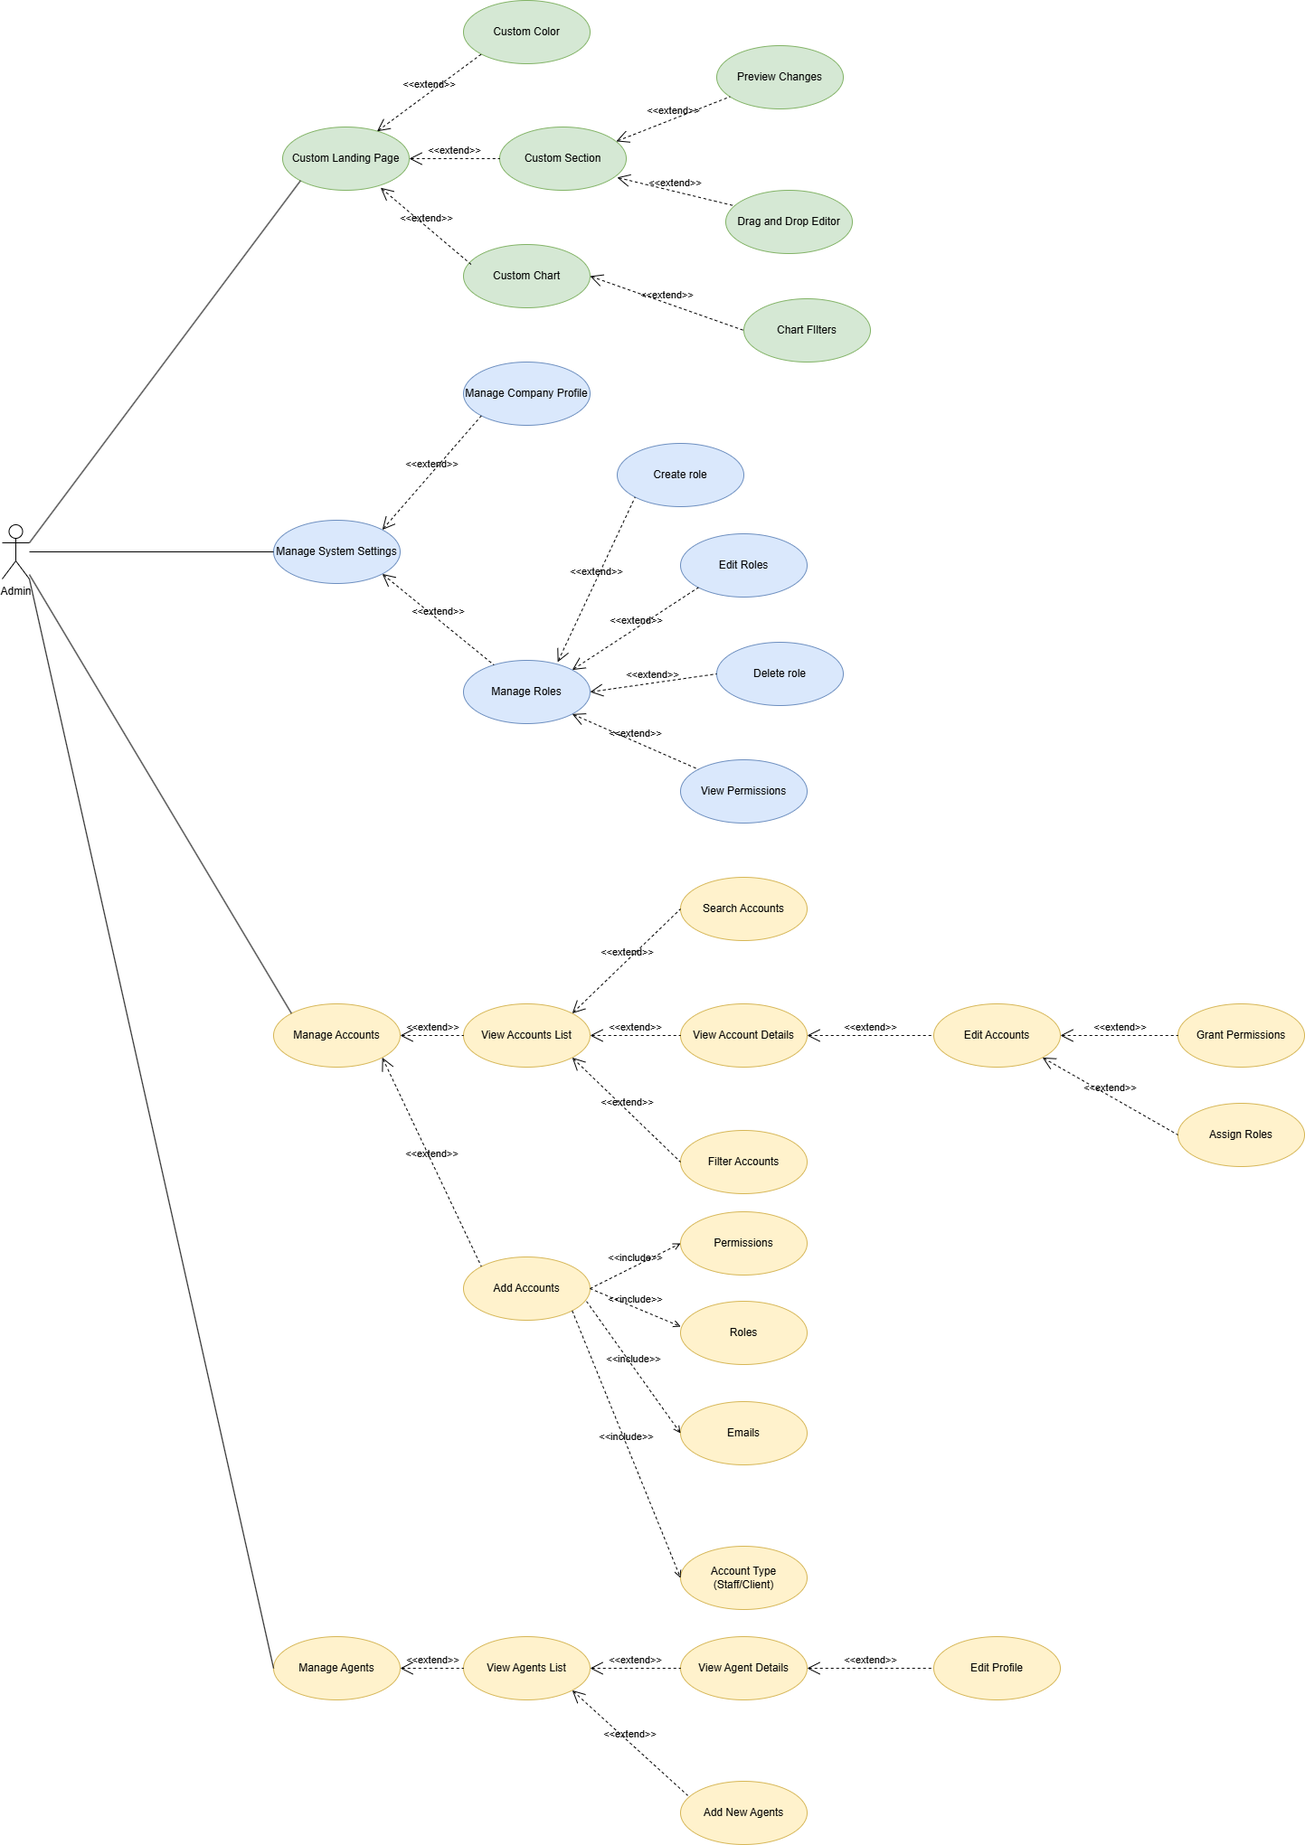
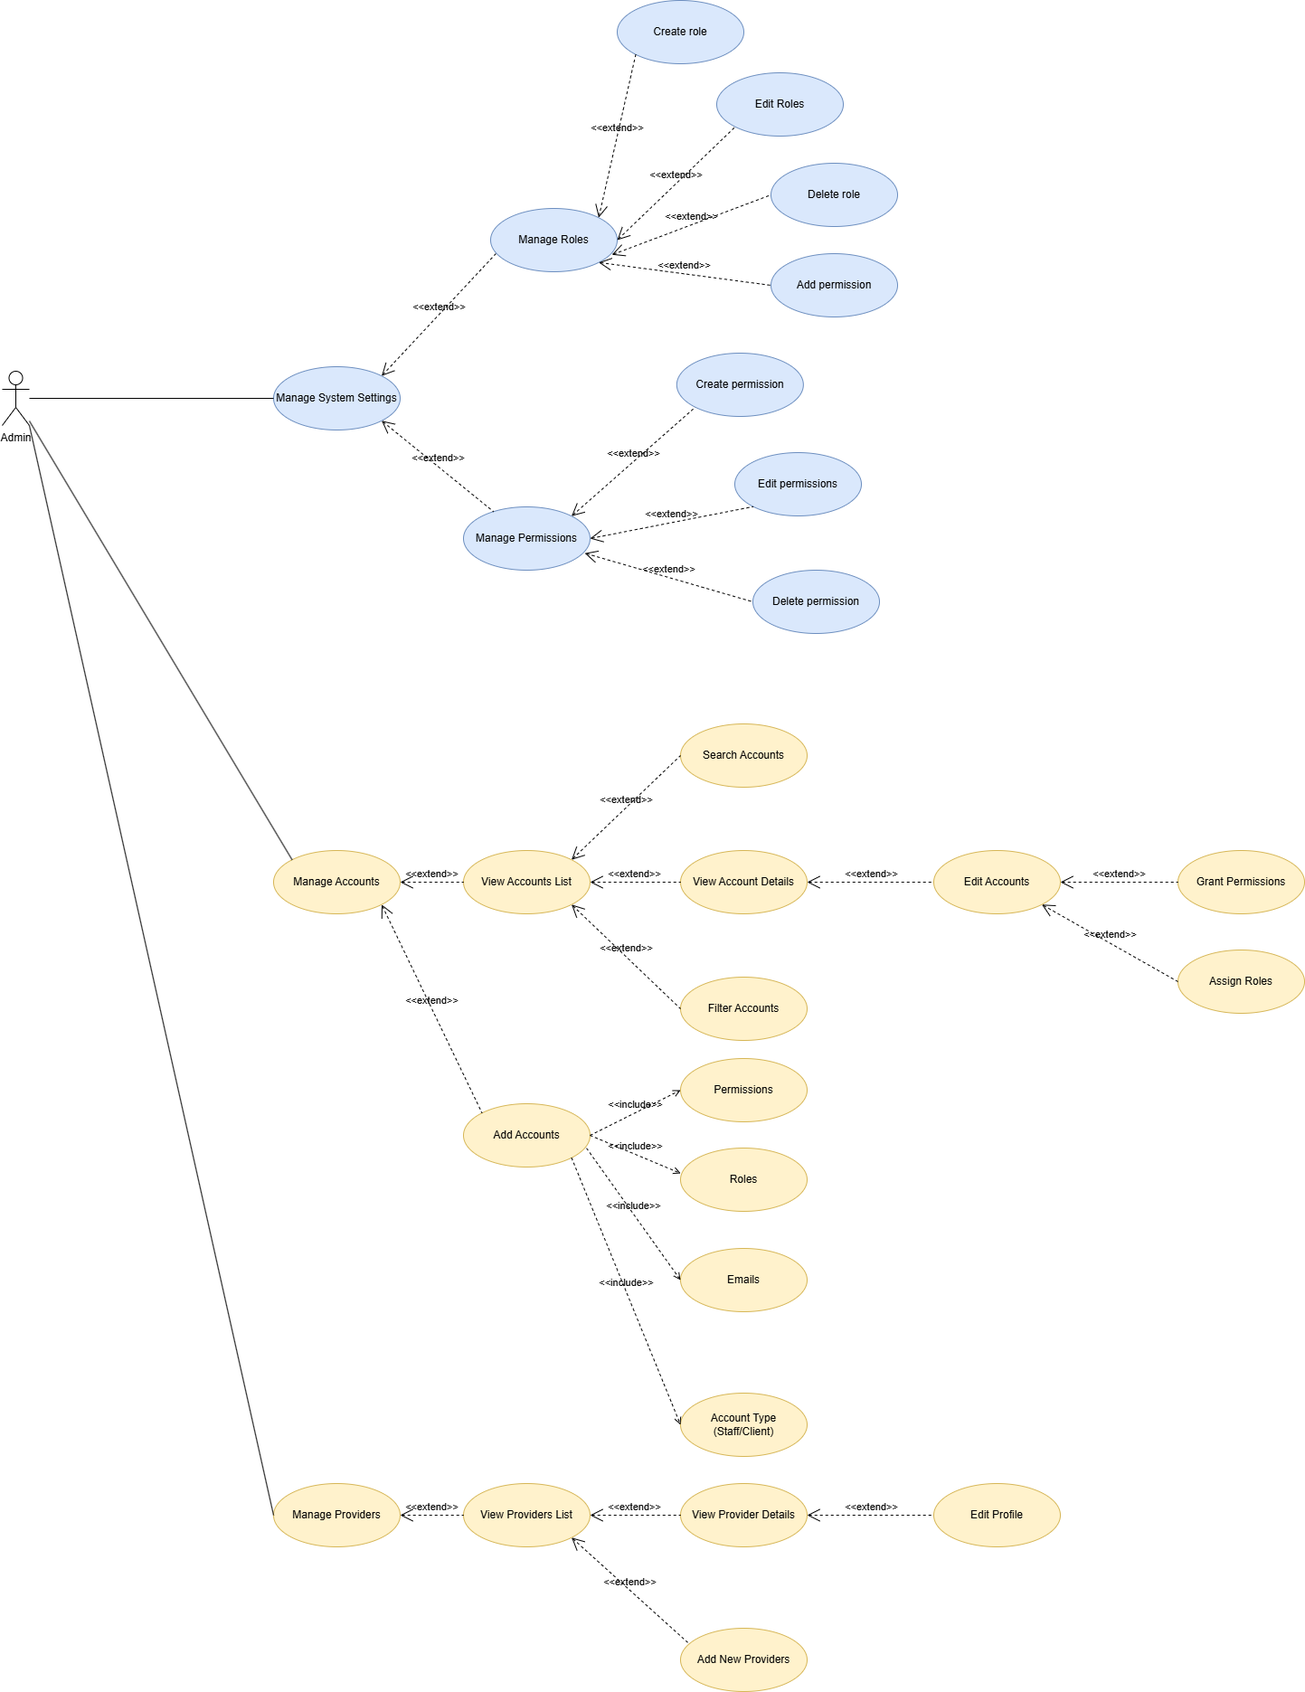
update

diff --git a/chapters/main/3.sys-analysis.tex b/chapters/main/3.sys-analysis.tex
@@ -167,60 +167,44 @@ When a freight forwarding company subscribes to FreightFlex, they receive their 
     \label{fig:Usecase Diagram for Admin}
 \end{figure}
 
-\subsubsection{Landing Page Settings}
+\subsubsection{Client Settings}
 \begin{table}[H]
 \begin{tabularx}{\textwidth}{|p{0.25\textwidth}|X|}
 \hline
-Usecase name     & Custom Landing Page                             \\ \hline
-Actor            & Admin                                           \\ \hline
-Description      & Custom Landing Page                             \\ \hline
-Preconditions &
-  \begin{tabular}[c]{@{}l@{}}1. Authorized with Super Admin Account.\\ 2. Actor is in Landing Page.\end{tabular} \\ \hline
-Postconditions   & Notification success or failed.                 \\ \hline
+Usecase name     & Create client                          \\ \hline
+Actor            & Admin                                \\ \hline
+Description      & Add client            \\ \hline
+Preconditions    & Authorized with Super Admin Account. \\ \hline
+Postconditions   & Show client details.                   \\ \hline
 Normal Flow &
-  \begin{tabular}[c]{@{}l@{}}1. Actor turns on edit mode.\\ 2. Actor upload Company logo.\\ 3. Actor choose color theme for each section.\\ 4. Actor choose charts to show.\\ 5. Actor drag and drop each section to suitable position.\\ 6. Actor preview changes.\end{tabular} \\ \hline
-Exception Flow   & 5a. Section size is not fit to desired position \\ \hline
-Alternative Flow &                                                 \\ \hline
-\end{tabularx}
-\caption{Custom Landing Page}
-\label{tab:custom-landing-page}
-\end{table}
-\subsubsection{System Settings}
-\begin{table}[H]
-\begin{tabularx}{\textwidth}{|p{0.25\textwidth}|X|}
-\hline
-Usecase name     & Setup Company Profile                   \\ \hline
-Actor            & Admin                                   \\ \hline
-Description      & Setup Company Profile                   \\ \hline
-Preconditions    & 1. Authorized with Super Admin Account. \\ \hline
-Postconditions   & Notification success or failed.         \\ \hline
-Normal Flow &
-  \begin{tabular}[c]{@{}l@{}}1. Actor go to Settings.\\ 2. Actor choose tab Company Profile.\\ 3. Actor upload Company logo.\\ 4. Actor fills required fields.\\ 5. Actor click on save button.\end{tabular} \\ \hline
+  \begin{tabular}[c]{@{}l@{}}1. Actor go to Clients.\\ 2. Actor click on new client button.\\ 3. Actor fill client information.\\ 4. Actor click on save button.\end{tabular} \\ \hline
 Exception Flow &
-  \begin{tabular}[c]{@{}l@{}}3a. Wrong file format.\\ 4a. Miss required fields.\\ 4b. Wrong field format.\end{tabular} \\ \hline
-Alternative Flow & 4c. Actor changes or removes data.      \\ \hline
+  \begin{tabular}[c]{@{}l@{}}4a. Email has been used.\\ Cannot create client.\end{tabular} \\ \hline
+Alternative Flow &                                      \\ \hline
 \end{tabularx}
-\caption{Company Profile Settings}
-\label{tab:company-profile-setting}
+\caption{Create client}
+\label{tab:create-client}
 \end{table}
 
 \begin{table}[H]
 \begin{tabularx}{\textwidth}{|p{0.25\textwidth}|X|}
 \hline
-Usecase name     & Create role                          \\ \hline
+Usecase name     & Update client details                         \\ \hline
 Actor            & Admin                                \\ \hline
-Description      & Add role with permissions            \\ \hline
+Description      & Add client            \\ \hline
 Preconditions    & Authorized with Super Admin Account. \\ \hline
-Postconditions   & Show role details.                   \\ \hline
+Postconditions   & Show updated client details.                   \\ \hline
 Normal Flow &
-  \begin{tabular}[c]{@{}l@{}}1. Actor go to Settings.\\ 2. Actor choose tab Role.\\ 3. Actor choose add new button.\\ 4. Actor ticks the checkbox for permission\\ 5. Actor click on save button.\end{tabular} \\ \hline
-Exception Flow   &                                      \\ \hline
+  \begin{tabular}[c]{@{}l@{}}1. Actor go to Clients.\\ 2. Actor click on existing client.\\ 3. Actor choose view icon.\\ 4. Actor update client information.\\ 5. Actor click on save button.\end{tabular} \\ \hline
+Exception Flow &
+  \begin{tabular}[c]{@{}l@{}}4a. Email has been used.\\ Cannot update client.\end{tabular} \\ \hline
 Alternative Flow &                                      \\ \hline
 \end{tabularx}
-\caption{Create new role}
-\label{tab:create-role}
+\caption{Update client}
+\label{tab:update-client}
 \end{table}
-\subsubsection{Account Settings}
+
+\subsubsection{Staff Settings}
 \begin{table}[H]
 \begin{tabularx}{\textwidth}{|p{0.25\textwidth}|X|}
 \hline
@@ -232,100 +216,118 @@ Postconditions   & Add account successful                      \\ \hline
 Normal Flow &
   \begin{tabular}[c]{@{}l@{}}1. Actor go to Adminstrantions.\\ 2. Actor choose tab Staff.\\ 3. Actor choose create button.\\ 4. Actor fills required fields.\\ 5. Actor click on save button.\end{tabular} \\ \hline
 Exception Flow &
-  \begin{tabular}[c]{@{}l@{}}4a. Actor does not fill required fields.\\ Cannot save staff.\end{tabular} \\ \hline
+  \begin{tabular}[c]{@{}l@{}}4a. Actor does not fill required fields.\\ 4b. Email has been used.\\ Cannot save staff.\end{tabular} \\ \hline
 Alternative Flow &                                             \\ \hline
 \end{tabularx}
 \caption{Add new staff}
 \label{tab:add-staff}
 \end{table}
 
+\subsubsection{Privilege Settings}
 \begin{table}[H]
 \begin{tabularx}{\textwidth}{|p{0.25\textwidth}|X|}
 \hline
-Usecase name     & Grant permissions for staff account         \\ \hline
-Actor            & Admin                                       \\ \hline
-Description      & Grant permissions for staff account         \\ \hline
-Preconditions    & Authorized with an Admin Privilege account. \\ \hline
-Postconditions   & Update account successful                   \\ \hline
+Usecase name     & Create role                          \\ \hline
+Actor            & Admin                                \\ \hline
+Description      & Add role            \\ \hline
+Preconditions    & Authorized with Super Admin Account. \\ \hline
+Postconditions   & Show role details.                   \\ \hline
 Normal Flow &
-  \begin{tabular}[c]{@{}l@{}}1. Actor go to Settings.\\ 2. Actor choose tab Role.\\ 3. Actor choose role to edit.\\ 4. Actor add account to role.\\ 5. Actor click on save button.\end{tabular} \\ \hline
-Exception Flow   &                                             \\ \hline
-Alternative Flow &                                             \\ \hline
+  \begin{tabular}[c]{@{}l@{}}1. Actor go to Settings.\\ 2. Actor choose tab Role.\\ 3. Actor choose add new button.\\ 4. Actor choose type user.\\ 5. Actor add users to the role.\\ 6. Actor click on save button.\end{tabular} \\ \hline
+Exception Flow   &                                      \\ \hline
+Alternative Flow &
+\begin{tabular}[c]{@{}l@{}} 4a. Actor choose type group.\\ 5a. Actor add groups to the role.\\ 6. Actor click on save button.\end{tabular} \\ \hline
 \end{tabularx}
-\caption{Grant permissions for staff}
-\label{tab:staff-permissions}
+\caption{Create new role}
+\label{tab:create-role}
 \end{table}
-\subsubsection{Agent Settings}
 
 \begin{table}[H]
 \begin{tabularx}{\textwidth}{|p{0.25\textwidth}|X|}
 \hline
-Usecase name     & View agent details                       \\ \hline
+Usecase name     & Create permission                          \\ \hline
+Actor            & Admin                                \\ \hline
+Description      & Add permission            \\ \hline
+Preconditions    & Authorized with Super Admin Account. \\ \hline
+Postconditions   & Show permission details.                   \\ \hline
+Normal Flow &
+  \begin{tabular}[c]{@{}l@{}}1. Actor go to Settings.\\ 2. Actor choose tab Permission.\\ 3. Actor choose add new button.\\ 4. Actor fill required fields.\\ 5. Actor add role to the permission.\\ 6. Actor click on save button.\end{tabular} \\ \hline
+Exception Flow   &                                      \\ \hline
+Alternative Flow &
+\begin{tabular}[c]{@{}l@{}}  5a. Actor add groups to the permission.\\ 6. Actor click on save button.\end{tabular} \\ \hline
+\end{tabularx}
+\caption{Create new permission}
+\label{tab:create-permission}
+\end{table}
+
+\begin{table}[H]
+\begin{tabularx}{\textwidth}{|p{0.25\textwidth}|X|}
+\hline
+Usecase name     & Create new group                          \\ \hline
+Actor            & Admin                                \\ \hline
+Description      & Add new group            \\ \hline
+Preconditions    & Authorized with Super Admin Account. \\ \hline
+Postconditions   & Show group details.                   \\ \hline
+Normal Flow &
+  \begin{tabular}[c]{@{}l@{}}1. Actor go to Settings.\\ 2. Actor choose tab Group Management.\\ 3. Actor choose add new button.\\ 4. Actor fill required fields.\\ 5. Actor click on save button.\end{tabular} \\ \hline
+Exception Flow   &                                      \\ \hline
+Alternative Flow &                               \\ \hline
+\end{tabularx}
+\caption{Create new group}
+\label{tab:create-group}
+\end{table}
+
+\begin{table}[H]
+\begin{tabularx}{\textwidth}{|p{0.25\textwidth}|X|}
+\hline
+Usecase name     & Update group members                         \\ \hline
+Actor            & Admin                                \\ \hline
+Description      & Update group members            \\ \hline
+Preconditions    & Authorized with Super Admin Account. \\ \hline
+Postconditions   & Show group details.                   \\ \hline
+Normal Flow &
+  \begin{tabular}[c]{@{}l@{}}1. Actor go to Settings.\\ 2. Actor choose tab Group Management.\\ 3. Actor choose existing group.\\ 4. Actor choose add members button.\\ 5. Actor choose memebers to add.\\ 6. Actor click on save button.\end{tabular} \\ \hline
+Exception Flow   &                                      \\ \hline
+Alternative Flow &
+  \begin{tabular}[c]{@{}l@{}}4a. Actor choose existing members.\\  5a. Actor click remove members button.\\ 6. Actor click on save button.\end{tabular} \\ \hline
+\end{tabularx}
+\caption{Update group members}
+\label{tab:update-group-members}
+\end{table}
+
+\subsubsection{Provider Settings}
+\begin{table}[H]
+\begin{tabularx}{\textwidth}{|p{0.25\textwidth}|X|}
+\hline
+Usecase name     & View provider details                       \\ \hline
 Actor            & Admin, Staff                             \\ \hline
-Description      & View agent details                       \\ \hline
+Description      & View provider details                       \\ \hline
 Preconditions    & Staff has view permission or Admin       \\ \hline
-Postconditions   & Display a detailed agent including rates \\ \hline
-Normal Flow & \begin{tabular}[c]{@{}l@{}}1. Actor go to Providers.\\ 2. Actor choose tab Agent.\\ 3. Actor choose Agent to view.\end{tabular} \\ \hline
-Exception Flow   & Actor does not have permission to view agent\\ \hline
+Postconditions   & Display a detailed provider \\ \hline
+Normal Flow & \begin{tabular}[c]{@{}l@{}}1. Actor go to Providers.\\ 2. Actor choose action button of Provider to view.\end{tabular} \\ \hline
+Exception Flow   & Actor does not have permission to view provider\\ \hline
 Alternative Flow &                                          \\ \hline
 \end{tabularx}
-\caption{View agent details}
-\label{tab:agent-detail}
+\caption{View provider details}
+\label{tab:provider-detail}
 \end{table}
 
 \begin{table}[H]
 \begin{tabularx}{\textwidth}{|p{0.25\textwidth}|X|}
 \hline
-Usecase name     & Search agent                       \\ \hline
+Usecase name     & Search provider                       \\ \hline
 Actor            & Admin, Staff                       \\ \hline
-Description      & Search agent                       \\ \hline
+Description      & Search provider                       \\ \hline
 Preconditions    & Staff has view permission or Admin \\ \hline
 Postconditions &
   Display a paginated list of agents related to the search information. \\ \hline
 Normal Flow &
-  \begin{tabular}[c]{@{}l@{}}1. Actor go to Providers.\\ 2. Actor choose tab Agent.\\ 3. Actor enters information to search.\\ 4. Actor click search button.\end{tabular} \\ \hline
-Exception Flow   & Actor does not have permission to view agent \\ \hline
+  \begin{tabular}[c]{@{}l@{}}1. Actor go to Providers.\\ 2. Actor enter code or name to search.\end{tabular} \\ \hline
+Exception Flow   & Keyword search does not match \\ \hline
 Alternative Flow &                                    \\ \hline
 \end{tabularx}
-\caption{Search agent}
-\label{tab:agent-search}
-\end{table}
-
-\begin{table}[H]
-\begin{tabularx}{\textwidth}{|p{0.25\textwidth}|X|}
-\hline
-Usecase name     & Import agents using excel file          \\ \hline
-Actor            & Admin, Staff                            \\ \hline
-Description      & Import agents using excel file          \\ \hline
-Preconditions    & Staff has add agent permission or Admin \\ \hline
-Postconditions   & Display agent list after imported       \\ \hline
-Normal Flow &
-  \begin{tabular}[c]{@{}l@{}}1. Actor go to Providers.\\ 2. Actor choose tab Agent.\\ 3. Actor choose Upload excel file.\\ 4. Actor preview agent list imported from excel.\\ 5. Actor confirm to import agents.\end{tabular} \\ \hline
-Exception Flow &
-  \begin{tabular}[c]{@{}l@{}}4a. Actor does not have permission to add agents\\ 4b. Wrong data format.\end{tabular} \\ \hline
-Alternative Flow & 5a. Actor cancel to import              \\ \hline
-\end{tabularx}
-\caption{Import agent from excel}
-\label{tab:agent-import-excel}
-\end{table}
-
-
-\begin{table}[H]
-\begin{tabularx}{\textwidth}{|p{0.25\textwidth}|X|}
-\hline
-Usecase name     & Add single rate                        \\ \hline
-Actor            & Admin, Staff                           \\ \hline
-Description      & Add rate to the agent                  \\ \hline
-Preconditions    & Staff has add rate permission or Admin \\ \hline
-Postconditions   & Display rate in agent detail           \\ \hline
-Normal Flow &
-  \begin{tabular}[c]{@{}l@{}}1. Actor go to Rates.\\ 2. Actor choose tab Freight or Local Charges or Other Services.\\ 3. Actor clicks new button.\\ 4. Actor choose a provider.\\ 5. Actor fills required fields.\\ 6. Actor clicks save button.\end{tabular} \\ \hline
-Exception Flow &
-  \begin{tabular}[c]{@{}l@{}}3a. Actor does not have permission to edit agent\\ 5b. Actor does not fill required fields. Cannot save.\end{tabular} \\ \hline
-Alternative Flow &                                        \\ \hline
-\end{tabularx}
-\caption{Add single rate}
-\label{tab:agent-add-rate}
+\caption{Search provider}
+\label{tab:provider-search}
 \end{table}
 
 \subsection{Usecase Diagram for Staff}
@@ -340,19 +342,54 @@ Alternative Flow &                                        \\ \hline
 \begin{table}[H]
 \begin{tabularx}{\textwidth}{|p{0.25\textwidth}|X|}
 \hline
-Usecase name     & Unsubscribe rate change notification    \\ \hline
-Actor            & Client, Staff                           \\ \hline
-Description      & Unsubscribe rate change notification    \\ \hline
-Preconditions    & Client, Staff has view rates permission \\ \hline
-Postconditions   & Unsubscribe successful                  \\ \hline
+Usecase name     & Create FCL rate    \\ \hline
+Actor            & Staff                           \\ \hline
+Description      & Add FCL rate    \\ \hline
+Preconditions    & Staff has create rate permission \\ \hline
+Postconditions   & Create rate successful                  \\ \hline
 Normal Flow &
-  \begin{tabular}[c]{@{}l@{}}1. Actor go to Rates\\ 2. Actor choose existing rate.\\ 3. Actor choose unsubscribe button.\\ 4. Actor choose confirm button.\end{tabular} \\ \hline
+  \begin{tabular}[c]{@{}l@{}}1. Actor go to Rates\\ 2. Actor choose tab Road FCL.\\ 3. Actor choose add new button.\\ 4. Actor fill required fields.\\ 5. Actor click on save button.\end{tabular} \\ \hline
 Exception Flow   &                                         \\ \hline
 Alternative Flow &                                         \\ \hline
 \end{tabularx}
-\caption{Unsubscribe rate change notification}
-\label{tab:rate-noti-unsubcribe}
+\caption{Create FCL rate}
+\label{tab:create-fcl-rate}
 \end{table}
+
+\begin{table}[H]
+\begin{tabularx}{\textwidth}{|p{0.25\textwidth}|X|}
+\hline
+Usecase name     & Create charge type    \\ \hline
+Actor            & Staff                           \\ \hline
+Description      & Add charge type    \\ \hline
+Preconditions    & Staff has create rate permission \\ \hline
+Postconditions   & Create charge type successful                  \\ \hline
+Normal Flow &
+  \begin{tabular}[c]{@{}l@{}}1. Actor go to Settings\\ 2. Actor choose tab Charge Type Management.\\ 3. Actor choose add new button.\\ 4. Actor fill required fields.\\ 5. Actor click on save button.\end{tabular} \\ \hline
+Exception Flow   &                                         \\ \hline
+Alternative Flow &                                         \\ \hline
+\end{tabularx}
+\caption{Create charge type}
+\label{tab:create-charge-type}
+\end{table}
+
+\begin{table}[H]
+  \begin{tabularx}{\textwidth}{|p{0.25\textwidth}|X|}
+  \hline
+  Usecase name     & Create service charge    \\ \hline
+  Actor            & Staff                           \\ \hline
+  Description      & Add service charge    \\ \hline
+  Preconditions    & Staff has create rate permission \\ \hline
+  Postconditions   & Create service charge successful                  \\ \hline
+  Normal Flow &
+    \begin{tabular}[c]{@{}l@{}}1. Actor go to Rates\\ 2. Actor choose tab Service Charge.\\ 3. Actor choose add new button.\\ 4. Actor fill required fields.\\ 5. Actor click on save button.\end{tabular} \\ \hline
+  Exception Flow   & 
+    \begin{tabular}[c]{@{}l@{}}4a.There is not charge type available.\\ Cannot create service charge.\end{tabular}\\ \hline
+  Alternative Flow &                                         \\ \hline
+  \end{tabularx}
+  \caption{Create service charge}
+  \label{tab:create-service-charge}
+  \end{table}
 
 \subsubsection{Quote Settings}
 \begin{table}[H]
@@ -363,7 +400,7 @@ Actor            & Staff                                      \\ \hline
 Description      & View all quote requests.                   \\ \hline
 Preconditions    & Staff has view quote permission            \\ \hline
 Postconditions   & Display a paginated list of quote requests \\ \hline
-Normal Flow & \begin{tabular}[c]{@{}l@{}}1. Actor go to Quotations.\\ 2. Actor go to Quote Request tab.\end{tabular} \\ \hline
+Normal Flow & \begin{tabular}[c]{@{}l@{}}1. Actor go to Quotes.\\ 2. Actor go to Quote Request tab.\end{tabular} \\ \hline
 Exception Flow   &                                            \\ \hline
 Alternative Flow &                                            \\ \hline
 \end{tabularx}

diff --git a/chapters/main/4.sys-design.tex b/chapters/main/4.sys-design.tex
@@ -736,7 +736,7 @@
 \subsubsection{Client}
 \begin{table}[H]
     \centering
-    \begin{tabular}{|p{3cm}|p{2cm}|p{\dimexpr\textwidth-6.8cm}|} % Adjust widths as needed
+    \begin{tabular}{|p{4cm}|p{2cm}|p{\dimexpr\textwidth-7.8cm}|} % Adjust widths as needed
         \hline
         \rowcolor[HTML]{C0C0C0} 
         \textbf{Attribute} & \textbf{Type} & \textbf{Description} \\ \hline
@@ -755,7 +755,7 @@
 \subsubsection{Provider}
 \begin{table}[H]
     \centering
-    \begin{tabular}{|p{3cm}|p{2cm}|p{\dimexpr\textwidth-6.8cm}|} % Adjust widths as needed
+    \begin{tabular}{|p{4cm}|p{2cm}|p{\dimexpr\textwidth-7.8cm}|} % Adjust widths as needed
         \hline
         \rowcolor[HTML]{C0C0C0} 
         \textbf{Attribute} & \textbf{Type} & \textbf{Description} \\ \hline

diff --git a/chapters/main/5.implementation.tex b/chapters/main/5.implementation.tex
@@ -238,6 +238,13 @@ Below are the key interfaces implemented in our system, along with their respect
     \label{fig:new-permission}
 \end{figure}
 
+\begin{figure}[H]
+    \centering
+    \includegraphics[width=15cm]{graphics/UI/new-permission-2.png}
+    \caption{New Permission Creation}
+    \label{fig:new-permission-2}
+\end{figure}
+
 % Group Management
 \begin{figure}[H]
     \centering
